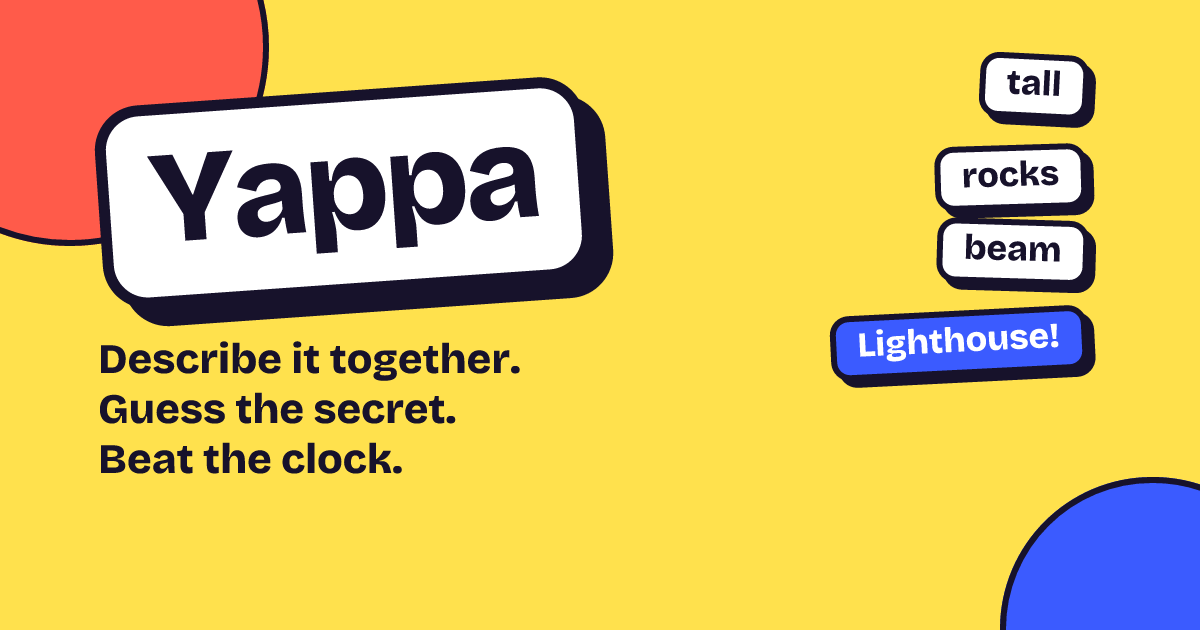
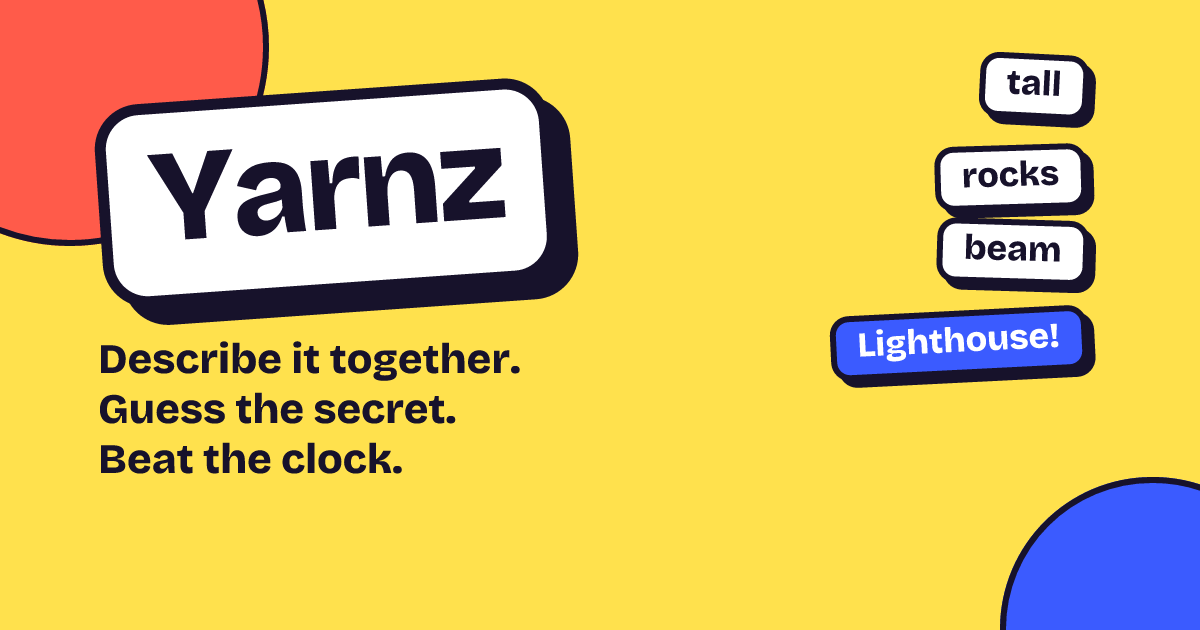
Rename the game to Yarnz
Display text, share messages, web title/manifest/card pages, docs pages, the
install-prompt event and brand scripts now say Yarnz. The feature graphic and
link preview image are regenerated. Identifiers stay: package IDs, slug, scheme,
storage keys, URLs and applied migrations.

diff --git a/docs/privacy.html b/docs/privacy.html
@@ -3,14 +3,14 @@
 <head>
   <meta charset="utf-8">
   <meta name="viewport" content="width=device-width, initial-scale=1">
-  <title>Yappa Privacy Policy</title>
-  <meta name="description" content="What the Yappa word-chain party game collects, why, who it is shared with, and how long it is kept.">
+  <title>Yarnz Privacy Policy</title>
+  <meta name="description" content="What the Yarnz word-chain party game collects, why, who it is shared with, and how long it is kept.">
   <link rel="icon" href="icon.png">
   <link rel="stylesheet" href="style.css">
 </head>
 <body>
 <main>
-  <a class="wordmark" href="./">Yappa</a>
+  <a class="wordmark" href="./">Yarnz</a>
 
   <h1>Privacy Policy</h1>
   <p class="meta">Effective 13 October 2026</p>
@@ -18,16 +18,16 @@
   <div class="card">
     <h2>The short version</h2>
     <ul>
-      <li>You don't create an account or give us an email address. Yappa signs you in with a random, anonymous ID.</li>
+      <li>You don't create an account or give us an email address. Yarnz signs you in with a random, anonymous ID.</li>
       <li>We store the name you type and what happens in your games — the words, guesses and results — only so the game can be played. Games are deleted within 24 hours.</li>
       <li>If you choose <em>Play online</em>, you're matched with people you don't know, and they see your name and words.</li>
       <li>To judge guesses, game words (never your name or ID) are sent to an AI service, Anthropic.</li>
-      <li>No ads, no tracking, no selling of data. We only keep daily totals, like how many games were played, with nothing that identifies you. Yappa doesn't use your location, contacts, camera or microphone.</li>
+      <li>No ads, no tracking, no selling of data. We only keep daily totals, like how many games were played, with nothing that identifies you. Yarnz doesn't use your location, contacts, camera or microphone.</li>
     </ul>
   </div>
 
   <h2>Who we are</h2>
-  <p>Yappa is a word-chain party game for 2 to 5 players, made by an independent developer (“we”, “us”). If you have a question about this policy or your data, email <a href="mailto:preciousngelale@gmail.com">preciousngelale@gmail.com</a>.</p>
+  <p>Yarnz is a word-chain party game for 2 to 5 players, made by an independent developer (“we”, “us”). If you have a question about this policy or your data, email <a href="mailto:preciousngelale@gmail.com">preciousngelale@gmail.com</a>.</p>
 
   <h2>What we collect</h2>
   <div class="table-wrap">
@@ -107,9 +107,9 @@
   </ul>
 
   <h2 id="delete">Deleting your data</h2>
-  <p>Because Yappa has no accounts, there's no sign-up to close. Your data is deleted automatically on the schedule above. You can also:</p>
+  <p>Because Yarnz has no accounts, there's no sign-up to close. Your data is deleted automatically on the schedule above. You can also:</p>
   <ul>
-    <li>Delete everything on your device by uninstalling Yappa, or with <em>Settings → Apps → Yappa → Storage → Clear data</em>.</li>
+    <li>Delete everything on your device by uninstalling Yarnz, or with <em>Settings → Apps → Yarnz → Storage → Clear data</em>.</li>
     <li>Ask us to delete game data straight away by emailing <a href="mailto:preciousngelale@gmail.com?subject=Clue%20Line%20data%20deletion">preciousngelale@gmail.com</a>. Tell us the room code and roughly when you played so we can find it. We'll reply within 30 days.</li>
   </ul>
 
@@ -123,7 +123,7 @@
   <p>Data is encrypted in transit (HTTPS). The database only lets players read the games they're in, and the secret word is hidden from the guesser on our server, not just in the app.</p>
 
   <h2>Children</h2>
-  <p>Yappa isn't directed at children under 13, and we don't knowingly collect personal data from them. If you believe a child has given us personal data, email us and we'll delete it.</p>
+  <p>Yarnz isn't directed at children under 13, and we don't knowingly collect personal data from them. If you believe a child has given us personal data, email us and we'll delete it.</p>
 
   <h2>International transfers</h2>
   <p>Our providers may process data in countries other than yours, including the United States. They protect it with safeguards such as standard contractual clauses.</p>
@@ -132,7 +132,7 @@
   <p>If we change this policy, we'll update this page and the date at the top. For significant changes we'll also say so in the app.</p>
 
   <nav>
-    <a href="./">Yappa home</a>
+    <a href="./">Yarnz home</a>
     <a href="delete.html">Delete your data</a>
     <a href="mailto:preciousngelale@gmail.com">Contact</a>
   </nav>

diff --git a/web/app/(game)/layout.tsx b/web/app/(game)/layout.tsx
@@ -3,7 +3,7 @@ import React from 'react';
 import { ClientShell } from '../../components/ClientShell';
 import './globals.css';
 
-const TITLE = 'Yappa: Word Chain Party Game';
+const TITLE = 'Yarnz: Word Chain Party Game';
 const DESCRIPTION =
   'A fast, loud word-chain party game for 2 to 5 friends. Chain words, lead the guesser to the secret word, beat the clock.';
 
@@ -13,13 +13,13 @@ const SITE_URL = process.env.VERCEL_PROJECT_PRODUCTION_URL
   ? `https://${process.env.VERCEL_PROJECT_PRODUCTION_URL}`
   : 'https://yappa-three.vercel.app';
 const OG_IMAGE = `${SITE_URL}/og.png`;
-const OG_IMAGE_ALT = 'Yappa: describe it together, guess the secret, beat the clock.';
+const OG_IMAGE_ALT = 'Yarnz: describe it together, guess the secret, beat the clock.';
 
 const INSTALL_SCRIPT = `
 window.addEventListener('beforeinstallprompt', function (e) {
   e.preventDefault();
   window.__installPrompt = e;
-  window.dispatchEvent(new Event('yappa:installable'));
+  window.dispatchEvent(new Event('yarnz:installable'));
 });
 if ('serviceWorker' in navigator) {
   window.addEventListener('load', function () { navigator.serviceWorker.register('/sw.js').catch(function () {}); });
@@ -47,11 +47,11 @@ export default function RootLayout({ children }: { children: React.ReactNode }) 
       <head>
         <title>{TITLE}</title>
         <meta name="description" content={DESCRIPTION} />
-        <meta name="application-name" content="Yappa" />
+        <meta name="application-name" content="Yarnz" />
         <meta property="og:title" content={TITLE} />
         <meta property="og:description" content={DESCRIPTION} />
         <meta property="og:type" content="website" />
-        <meta property="og:site_name" content="Yappa" />
+        <meta property="og:site_name" content="Yarnz" />
         <meta property="og:url" content={SITE_URL} />
         <meta property="og:image" content={OG_IMAGE} />
         <meta property="og:image:type" content="image/png" />
@@ -63,18 +63,18 @@ export default function RootLayout({ children }: { children: React.ReactNode }) 
         <meta name="twitter:description" content={DESCRIPTION} />
         <meta name="twitter:image" content={OG_IMAGE} />
         <meta name="twitter:image:alt" content={OG_IMAGE_ALT} />
-        {/* Installable: "Add to Home Screen" opens it full screen with the Yappa icon. */}
+        {/* Installable: "Add to Home Screen" opens it full screen with the Yarnz icon. */}
         <link rel="manifest" href="/manifest.webmanifest" />
         <meta name="mobile-web-app-capable" content="yes" />
         <meta name="apple-mobile-web-app-capable" content="yes" />
-        <meta name="apple-mobile-web-app-title" content="Yappa" />
+        <meta name="apple-mobile-web-app-title" content="Yarnz" />
         <meta name="apple-mobile-web-app-status-bar-style" content="default" />
         {/* Android browsers fire their install offer once, often before the game has loaded:
             keep it for the install prompt (components/InstallPrompt.tsx) to show later. */}
         <script dangerouslySetInnerHTML={{ __html: INSTALL_SCRIPT }} />
       </head>
       <body>
-        <noscript>You need to enable JavaScript to play Yappa.</noscript>
+        <noscript>You need to enable JavaScript to play Yarnz.</noscript>
         <div id="root">
           <ClientShell>{children}</ClientShell>
         </div>

diff --git a/web/app/(card)/c/[id]/page.tsx b/web/app/(card)/c/[id]/page.tsx
@@ -10,15 +10,15 @@ type Props = { params: Promise<{ id: string }> };
 export async function generateMetadata({ params }: Props): Promise<Metadata> {
   const { id } = await params;
   const card = await getCard(id);
-  if (!card) return { title: 'Yappa' };
+  if (!card) return { title: 'Yarnz' };
   const { won, outOf, verdict } = summarise(card);
-  const title = `We scored ${won}/${outOf} on Yappa: ${verdict}`;
+  const title = `We scored ${won}/${outOf} on Yarnz: ${verdict}`;
   const description = 'A word-chain party game for 2 to 5 friends. Chain words, lead the guesser to the secret word, beat the clock.';
-  const image = { url: `${SITE_URL}/c/${id}/image.png`, width: 1200, height: 630, alt: `Yappa: ${won} of ${outOf} rounds won` };
+  const image = { url: `${SITE_URL}/c/${id}/image.png`, width: 1200, height: 630, alt: `Yarnz: ${won} of ${outOf} rounds won` };
   return {
     title,
     description,
-    openGraph: { title, description, url: `${SITE_URL}/c/${id}`, siteName: 'Yappa', type: 'website', images: [image] },
+    openGraph: { title, description, url: `${SITE_URL}/c/${id}`, siteName: 'Yarnz', type: 'website', images: [image] },
     twitter: { card: 'summary_large_image', title, description, images: [image] },
   };
 }
@@ -43,7 +43,7 @@ export default async function CardPage({ params }: Props) {
         src={`/c/${id}/image.png`}
         width={1200}
         height={630}
-        alt={`Yappa: ${won} of ${outOf} rounds won. ${verdict}.`}
+        alt={`Yarnz: ${won} of ${outOf} rounds won. ${verdict}.`}
         style={{ width: '100%', height: 'auto', ...sticker, borderRadius: 16 }}
       />
 
@@ -60,7 +60,7 @@ export default async function CardPage({ params }: Props) {
           padding: '16px 20px',
         }}
       >
-        Play Yappa free
+        Play Yarnz free
       </a>
 
       <section style={{ ...sticker, padding: '8px 20px 12px' }}>
@@ -82,7 +82,7 @@ export default async function CardPage({ params }: Props) {
       </section>
 
       <p style={{ textAlign: 'center', fontSize: 15, margin: 0 }}>
-        Yappa is a word-chain party game for 2 to 5 friends, each on their own phone.
+        Yarnz is a word-chain party game for 2 to 5 friends, each on their own phone.
       </p>
     </main>
   );

diff --git a/web/components/InstallPrompt.tsx b/web/components/InstallPrompt.tsx
@@ -1,5 +1,5 @@
 'use client';
-// Asks a phone visitor to add Yappa to their home screen when they open a link to it.
+// Asks a phone visitor to add Yarnz to their home screen when they open a link to it.
 // Android browsers hand us an offer to do it (captured early in app/(game)/layout.tsx), so it
 // takes one tap; iPhones can't be asked directly, so we show where Add to Home Screen is.
 // Never shown on computers, once installed, or mid-game (only on the Home screen), and "Not
@@ -60,7 +60,7 @@ export function InstallPrompt() {
       setOffer(window.__installPrompt);
       setKind('offer');
     };
-    window.addEventListener('yappa:installable', takeOffer);
+    window.addEventListener('yarnz:installable', takeOffer);
     // No install offer by now (iPhone, an in-app browser, Firefox): show the steps instead.
     const timer = setTimeout(() => {
       if (window.__installPrompt) takeOffer();
@@ -70,7 +70,7 @@ export function InstallPrompt() {
     window.addEventListener('appinstalled', onInstalled);
     return () => {
       clearTimeout(timer);
-      window.removeEventListener('yappa:installable', takeOffer);
+      window.removeEventListener('yarnz:installable', takeOffer);
       window.removeEventListener('appinstalled', onInstalled);
     };
     // Once per page load, on Home.
@@ -107,7 +107,7 @@ export function InstallPrompt() {
       >
         <img src="/icons/icon-192.png" alt="" className="install-icon" />
         <h2 id="install-title" className="install-title">
-          Add Yappa to your home screen?
+          Add Yarnz to your home screen?
         </h2>
         <p className="install-text">
           Then it’s one tap away, like an app, and opens full screen. It’s free and takes a second.

diff --git a/docs/delete.html b/docs/delete.html
@@ -3,17 +3,17 @@
 <head>
   <meta charset="utf-8">
   <meta name="viewport" content="width=device-width, initial-scale=1">
-  <title>Delete Yappa Data</title>
-  <meta name="description" content="How to delete the data the Yappa game stores about you.">
+  <title>Delete Yarnz Data</title>
+  <meta name="description" content="How to delete the data the Yarnz game stores about you.">
   <link rel="icon" href="icon.png">
   <link rel="stylesheet" href="style.css">
 </head>
 <body>
 <main>
-  <a class="wordmark" href="./">Yappa</a>
+  <a class="wordmark" href="./">Yarnz</a>
 
   <h1>Delete your data</h1>
-  <p>Yappa has no sign-up, email or password — it uses a random, anonymous player ID — so there's no account to close. Here's what's stored and how it's removed.</p>
+  <p>Yarnz has no sign-up, email or password — it uses a random, anonymous player ID — so there's no account to close. Here's what's stored and how it's removed.</p>
 
   <div class="card">
     <h2>Deleted automatically</h2>
@@ -27,7 +27,7 @@
 
   <div class="card">
     <h2>Delete it yourself</h2>
-    <p>Uninstall Yappa, or go to <em>Settings → Apps → Yappa → Storage → Clear data</em>. This removes your name, settings and player ID from your phone.</p>
+    <p>Uninstall Yarnz, or go to <em>Settings → Apps → Yarnz → Storage → Clear data</em>. This removes your name, settings and player ID from your phone.</p>
   </div>
 
   <div class="card">
@@ -37,7 +37,7 @@
   </div>
 
   <nav>
-    <a href="./">Yappa home</a>
+    <a href="./">Yarnz home</a>
     <a href="privacy.html">Privacy Policy</a>
   </nav>
   <footer class="site-footer">

diff --git a/docs/index.html b/docs/index.html
@@ -3,16 +3,16 @@
 <head>
   <meta charset="utf-8">
   <meta name="viewport" content="width=device-width, initial-scale=1">
-  <title>Yappa</title>
-  <meta name="description" content="Yappa — a word-chain party game for 2 to 5 players. Chain words. Guess the secret. Beat the clock.">
+  <title>Yarnz</title>
+  <meta name="description" content="Yarnz — a word-chain party game for 2 to 5 players. Chain words. Guess the secret. Beat the clock.">
   <link rel="icon" href="icon.png">
   <link rel="stylesheet" href="style.css">
 </head>
 <body>
 <main>
-  <a class="wordmark" href="./">Yappa</a>
+  <a class="wordmark" href="./">Yarnz</a>
   <h1>Chain words. Guess the secret. Beat the clock.</h1>
-  <p>Yappa is a word-chain party game for 2 to 5 players on their own phones. Each round, one player is the Guesser and everyone else knows the secret word. They take turns adding one-word clues, without saying the word or its off-limits words, while the Guesser races the clock to name it. Just two of you? Play duo.</p>
+  <p>Yarnz is a word-chain party game for 2 to 5 players on their own phones. Each round, one player is the Guesser and everyone else knows the secret word. They take turns adding one-word clues, without saying the word or its off-limits words, while the Guesser races the clock to name it. Just two of you? Play duo.</p>
 
   <div class="card">
     <h2>Support</h2>

diff --git a/web/app/(card)/c/[id]/image.png/route.tsx b/web/app/(card)/c/[id]/image.png/route.tsx
@@ -70,7 +70,7 @@ export async function GET(_req: Request, { params }: { params: Promise<{ id: str
         {/* Left: wordmark, score, verdict. */}
         <div style={{ display: 'flex', flexDirection: 'column', width: 420, gap: 26 }}>
           <div style={{ ...sticker(WHITE, 8), alignSelf: 'flex-start', padding: '0 26px 6px', transform: 'rotate(-4deg)', fontSize: 64, fontWeight: 800, letterSpacing: -2 }}>
-            Yappa
+            Yarnz
           </div>
           <div style={{ ...sticker(WHITE), flexDirection: 'column', alignItems: 'center', padding: '18px 24px 22px', marginTop: 10 }}>
             <div style={{ display: 'flex', alignItems: 'baseline', gap: 8 }}>

diff --git a/src/lib/shareRoom.web.ts b/src/lib/shareRoom.web.ts
@@ -13,10 +13,10 @@ export function joinLink(roomCode: string): string {
  */
 export async function shareRoom(roomCode: string): Promise<ShareResult> {
   const url = joinLink(roomCode);
-  const text = `Join my Yappa game! Room code: ${roomCode}`;
+  const text = `Join my Yarnz game! Room code: ${roomCode}`;
   if (typeof navigator.share === 'function') {
     try {
-      await navigator.share({ title: 'Yappa', text, url });
+      await navigator.share({ title: 'Yarnz', text, url });
       return 'shared';
     } catch (e) {
       // Closing the share sheet isn't an error worth reporting.

diff --git a/app/game/round.tsx b/app/game/round.tsx
@@ -482,7 +482,7 @@ export default function RoundScreen() {
               const won = history.filter((h) => h.outcome === 'won').length;
               // A game ended early is scored out of the rounds played, as on the card.
               const outOf = Math.min(history.length, roomData.maxRounds);
-              return await shareCard(cardId, `We scored ${won}/${outOf} on Yappa! Can you beat it?`);
+              return await shareCard(cardId, `We scored ${won}/${outOf} on Yarnz! Can you beat it?`);
             } catch (e) {
               console.error(e);
               return 'failed';

diff --git a/app/lobby.tsx b/app/lobby.tsx
@@ -205,7 +205,7 @@ export default function LobbyScreen() {
       const message = errorText(e);
       setTeamError(
         message.includes('update the app')
-          ? 'Someone needs to update Yappa to play versus.'
+          ? 'Someone needs to update Yarnz to play versus.'
           : message.includes('too many players')
             ? `A normal game seats ${MAX_PLAYERS}. Someone needs to leave first.`
             : 'Couldn’t switch. Check your connection.',

diff --git a/src/lib/shareRoom.ts b/src/lib/shareRoom.ts
@@ -6,7 +6,7 @@ export type ShareResult = 'shared' | 'copied' | 'failed';
 /** Opens the system share sheet with the room code. */
 export async function shareRoom(roomCode: string): Promise<ShareResult> {
   try {
-    await Share.share({ message: `Join my Yappa game! Room code: ${roomCode}` });
+    await Share.share({ message: `Join my Yarnz game! Room code: ${roomCode}` });
     return 'shared';
   } catch (e) {
     console.error(e);

diff --git a/src/lib/shareCard.web.ts b/src/lib/shareCard.web.ts
@@ -13,7 +13,7 @@ export async function shareCard(cardId: string, text: string): Promise<ShareResu
   const url = cardLink(cardId);
   if (typeof navigator.share === 'function') {
     try {
-      await navigator.share({ title: 'Yappa', text, url });
+      await navigator.share({ title: 'Yarnz', text, url });
       return 'shared';
     } catch (e) {
       // Closing the share sheet isn't an error worth reporting.
